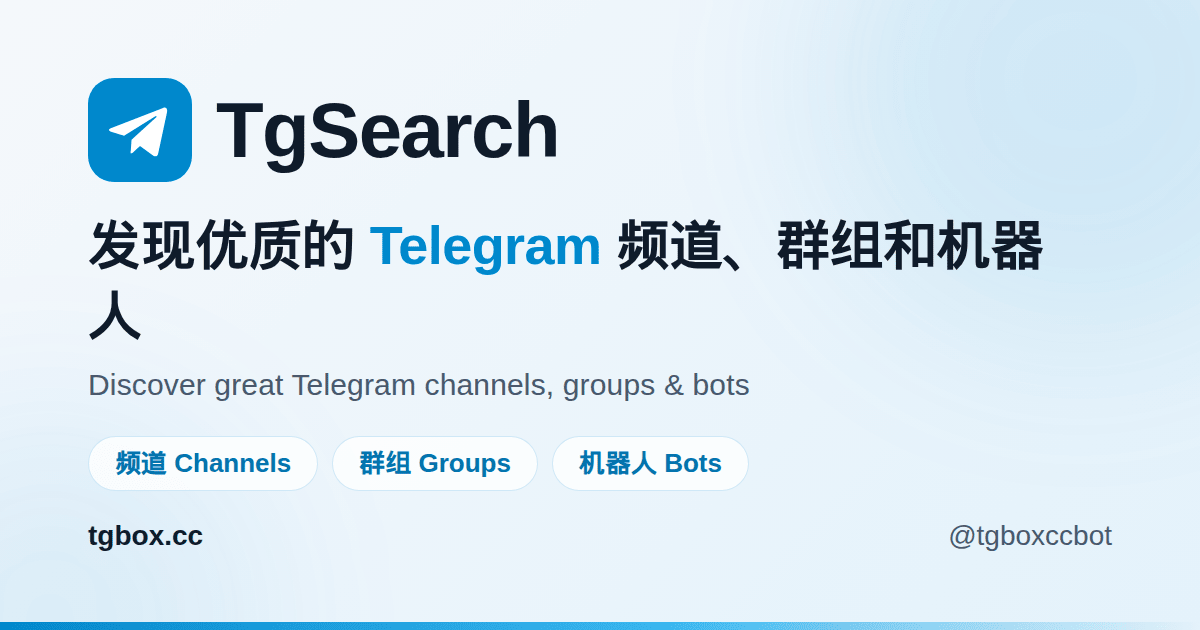
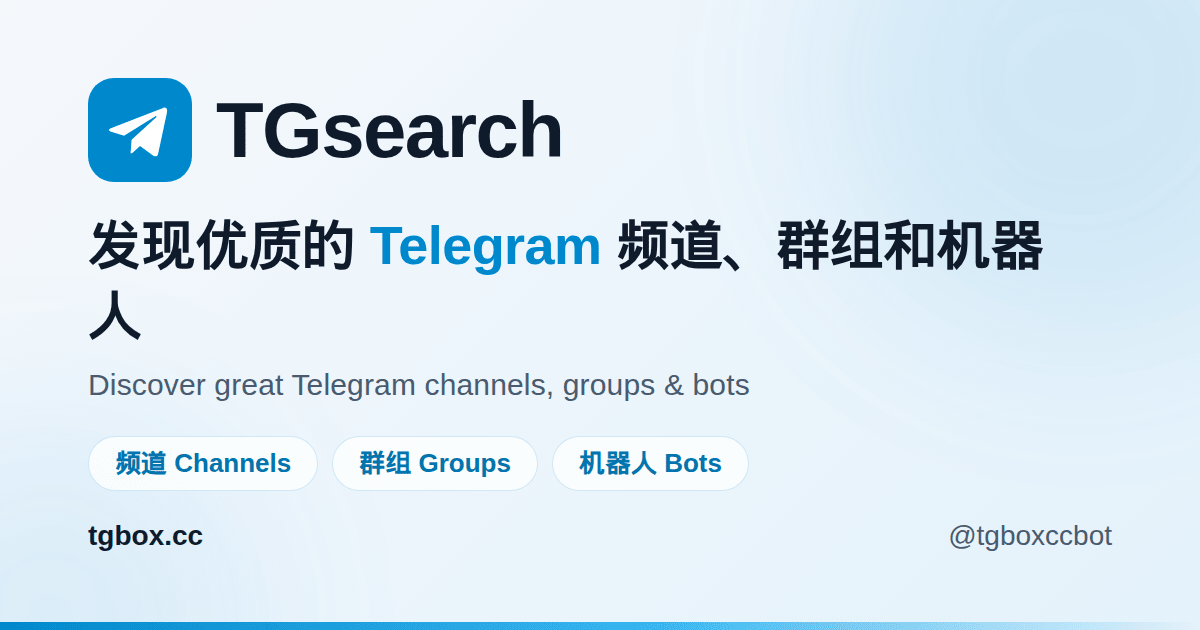
Spell the public brand name TGsearch.
Keep the same display surfaces as the first rename: site title, home wordmark, manifest, and the default social card. Unconfirmed copy and internal identifiers stay unchanged.

Changed region(s): [[0.2158, 0.1508, 0.4933, 0.2714], [0.6167, 0.9651, 0.74, 1.0]]

diff --git a/apps/web/test/build.test.ts b/apps/web/test/build.test.ts
@@ -443,7 +443,7 @@ describe("site build from snapshot data", () => {
         new RegExp(`<a[^>]*href="${repoUrl}"[^>]*rel="noopener"[^>]*>[\\s\\S]*?${label}`),
       );
       expect(footer, route).toContain(licence);
-      expect(footer, route).toContain(`© ${new Date().getUTCFullYear()} TgSearch`);
+      expect(footer, route).toContain(`© ${new Date().getUTCFullYear()} TGsearch`);
     }
   });
 
@@ -862,7 +862,7 @@ describe("site build from snapshot data", () => {
       // Header nav and mobile tab bar link the page.
       expect(html(prefix)).toContain(`href="/${prefix}rank/"`);
     }
-    expect(html("rank")).toContain("<title>电报频道排名 · Telegram 群组与机器人排行榜 | TgSearch<");
+    expect(html("rank")).toContain("<title>电报频道排名 · Telegram 群组与机器人排行榜 | TGsearch<");
     expect(html("")).toMatch(/data-home-rankings[^>]*>|href="\/rank\/"[^>]*data-home-rankings/);
     const sitemap = readFileSync(path.join(client, "sitemap-pages.xml"), "utf8");
     expect(sitemap).toContain(`<loc>${siteUrl}/rank/</loc>`);
@@ -1101,7 +1101,7 @@ describe("site build from snapshot data", () => {
       datePublished: "2026-09-15T00:00:00.000Z",
       dateModified: "2026-09-17T00:00:00.000Z",
       inLanguage: "en",
-      author: { "@type": "Organization", "@id": `${siteUrl}/#organization`, name: "TgSearch" },
+      author: { "@type": "Organization", "@id": `${siteUrl}/#organization`, name: "TGsearch" },
       publisher: { "@type": "Organization", "@id": `${siteUrl}/#organization` },
     });
     expect(Array.isArray(faq?.mainEntity) && faq.mainEntity.length).toBeGreaterThanOrEqual(2);

diff --git a/scripts/og/og-default.html b/scripts/og/og-default.html
@@ -122,14 +122,14 @@
     <div class="wrap">
       <div class="brand">
         <svg class="mark" viewBox="0 0 32 32">
-          <title>TgSearch</title>
+          <title>TGsearch</title>
           <rect width="32" height="32" rx="8" fill="#0088cc" />
           <path
             d="M7.4 15.3 23.1 9.2c.8-.3 1.5.2 1.2 1.4l-2.7 12.6c-.2.9-.7 1.1-1.5.7l-4.1-3-2 1.9c-.2.2-.4.4-.9.4l.3-4.2 7.6-6.9c.3-.3-.1-.5-.5-.2l-9.4 5.9-4-1.3c-.9-.3-.9-.9.3-1.2Z"
             fill="#fff"
           />
         </svg>
-        <div class="name">TgSearch</div>
+        <div class="name">TGsearch</div>
       </div>
       <div>
         <h1>发现优质的 <em>Telegram</em> 频道、群组和机器人</h1>

diff --git a/packages/shared/src/i18n/en.ts b/packages/shared/src/i18n/en.ts
@@ -2,7 +2,7 @@ import type { Dictionary } from "./index.ts";
 
 export const en: Dictionary = {
   site: {
-    title: "TgSearch",
+    title: "TGsearch",
     tagline: "Discover great Telegram channels, groups and bots",
     home: "Home",
     channels: "Channels",

diff --git a/packages/shared/src/i18n/zh.ts b/packages/shared/src/i18n/zh.ts
@@ -1,6 +1,6 @@
 export const zh = {
   site: {
-    title: "TgSearch",
+    title: "TGsearch",
     tagline: "发现优质的 Telegram 频道、群组和机器人",
     home: "首页",
     channels: "频道",
